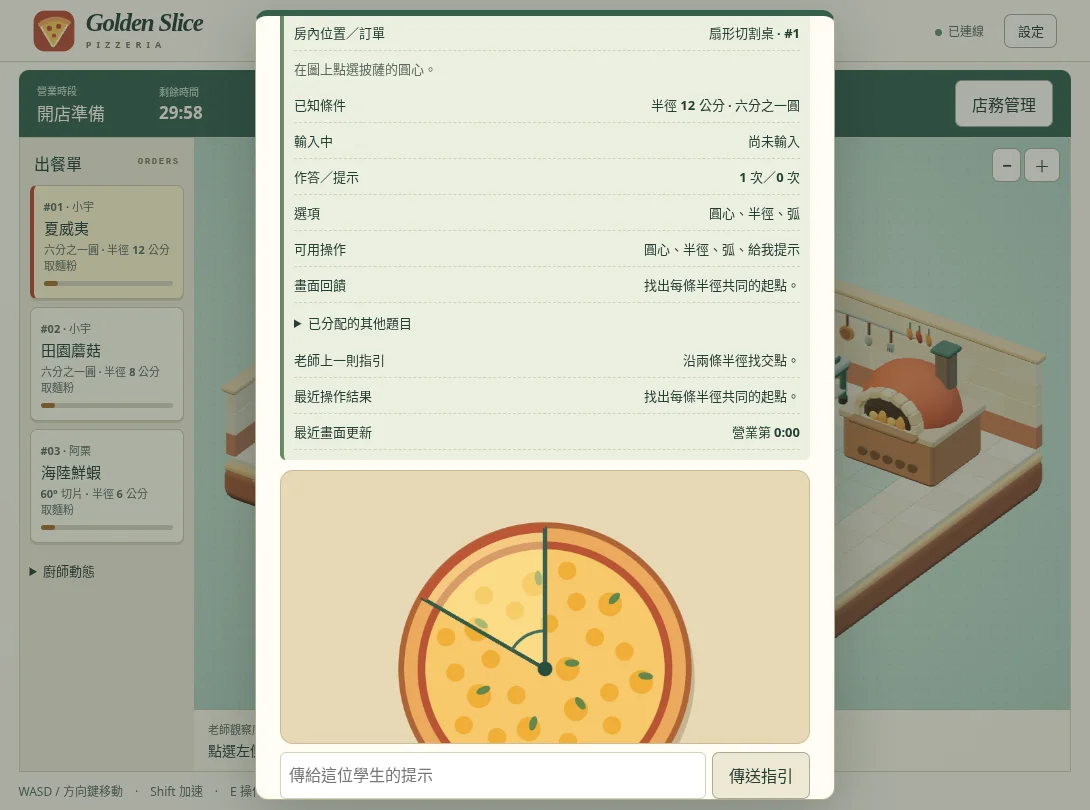
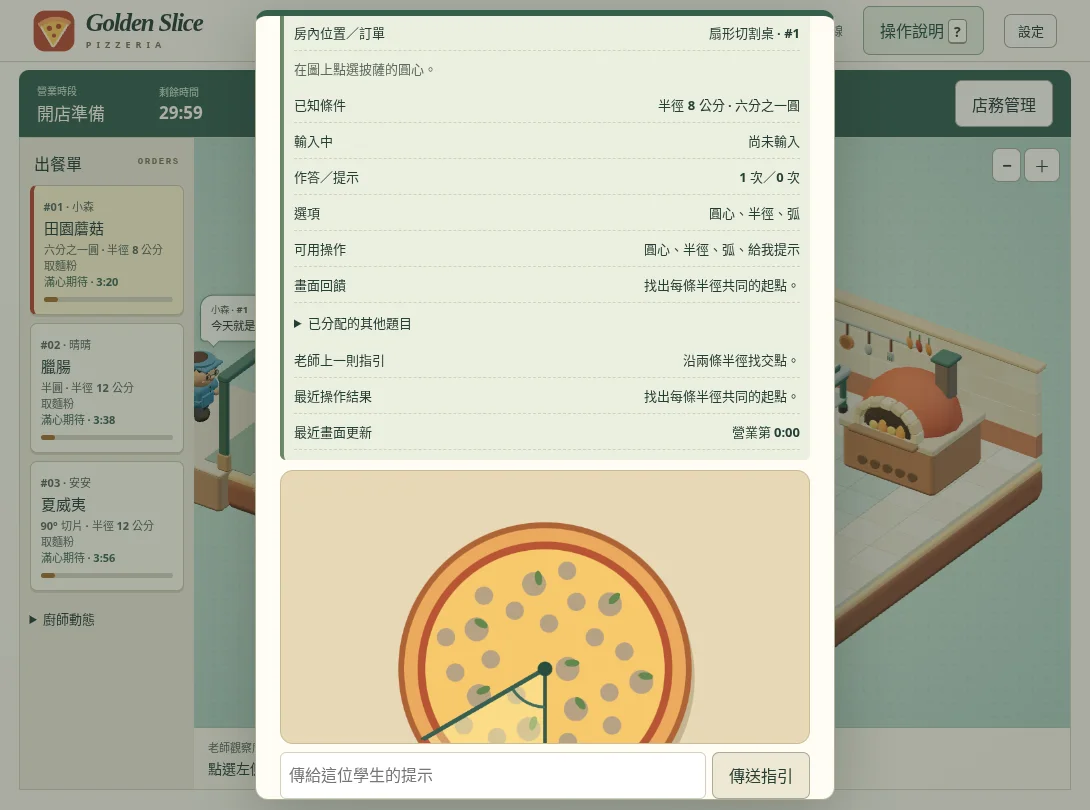
Release v1.4.1: keep classroom entry and mouse rescues responsive on slower connections

diff --git a/public/app.js b/public/app.js
@@ -8,6 +8,7 @@ import {
   itemNames,
   near,
   eventPoint,
+  holdingMouse,
 } from './world.js'
 import { guestLabels, guestLine, moodOf, patienceLeft } from './guests.js'
 import { eligible, roleFor, roleNames, craftLabels, availableMath } from './brigade.js'
@@ -39,6 +40,8 @@ let socket,
   cardsKey = '',
   rosterKey = '',
   nextVisit = null,
+  mouseSpot = null,
+  pendingEntry = null,
   walkKeys = new Set(),
   actionMemory = {},
   lastNews = 0,
@@ -278,6 +281,7 @@ function show(mode, title, html) {
   }
 }
 function close() {
+  pendingEntry = null
   if (dialogMode === 'station' && me() && state.status === 'playing') send('study')
   if (dlg.open) dlg.close()
   dialogMode = ''
@@ -307,7 +311,10 @@ dlg.addEventListener('click', (e) => {
 })
 function send(op, extra = {}) {
   if (socket?.readyState !== 1) {
-    if (op !== 'move') toast('正在重新連線，請稍候。')
+    if (['join', 'create'].includes(op) && !identity) {
+      pendingEntry = { op, extra }
+      toast('正在連線，連上後會自動進入準備室。')
+    } else if (op !== 'move') toast('正在重新連線，請稍候。')
     return
   }
   socket.send(JSON.stringify({ op, round: state?.round, nonce: crypto.randomUUID(), ...extra }))
@@ -324,6 +331,11 @@ function connect() {
       saved = JSON.parse(sessionStorage.getItem('golden-room'))
     } catch {}
     if (saved) send('restore', saved)
+    else if (pendingEntry) {
+      const entry = pendingEntry
+      pendingEntry = null
+      send(entry.op, entry.extra)
+    }
   }
   socket.onmessage = (e) => {
     const m = JSON.parse(e.data)
@@ -678,6 +690,7 @@ function render() {
       close()
       if ($('guide').open) $('guide').close()
       selected = 0
+      mouseSpot = null
       nextVisit = null
       actionMemory = {}
       cardsKey = ''
@@ -1444,6 +1457,11 @@ function eventPanel(force) {
     }
     return
   }
+  if (force && e.kind === 'mouse' && near(me(), eventPoint(e, state.t, me()))) {
+    const p = me()
+    mouseSpot = { id: e.start, at: state.t, x: p.x, z: p.z }
+    send('engage', { eventId: e.start })
+  }
   const key = e.kind + '-' + e.step + '-' + !!me().cargo
   if (!force && panelKey === key) return
   panelKey = key
@@ -1923,7 +1941,10 @@ document.addEventListener('click', (e) => {
   }
   if (c === 'event') {
     if (!state.event) return close()
-    if (!near(me(), eventPoint(state.event, state.t, me()))) {
+    if (
+      !holdingMouse(state.event, state.t, me(), mouseSpot) &&
+      !near(me(), eventPoint(state.event, state.t, me()))
+    ) {
       close()
       gotoEvent()
       return

diff --git a/game.js b/game.js
@@ -9,6 +9,7 @@ import {
   route,
   near,
   eventPoint,
+  holdingMouse,
 } from './public/world.js'
 import { eligible, availableMath, roleFor } from './public/brigade.js'
 import { patienceLeft, moodOf } from './public/guests.js'
@@ -262,6 +263,7 @@ export function newOrder(r, gold = false) {
 }
 export function disconnect(r, p) {
   p.online = false
+  p.engaged = null
   p.studying = null
   p.cargo = false
   p.move = [0, 0]
@@ -362,11 +364,7 @@ const makeEvent = (kind, r) => {
 }
 function playEvent(r, p, m) {
   const e = r.event
-  const atMouse =
-    e?.kind === 'mouse' &&
-    p.engaged?.id === e.start &&
-    r.t - p.engaged.at < 18 &&
-    Math.hypot(p.x - p.engaged.x, p.z - p.engaged.z) < 0.4
+  const atMouse = holdingMouse(e, r.t, p, p.engaged)
   need(e && (atMouse || near(p, eventPoint(e, r.t, p))), '請前往你負責的事件位置。')
   need(m.eventId === e.start, '這場事件已結束。')
   need(r.t - (e.lastBy[p.id] ?? -2) > 0.22, '稍候再接下一棒。')
@@ -626,7 +624,10 @@ export function command(r, p, m) {
   if (m.op === 'engage') {
     const e = r.event
     need(
-      e?.kind === 'mouse' && m.eventId === e.start && near(p, eventPoint(e, r.t, p)),
+      e?.kind === 'mouse' &&
+        m.eventId === e.start &&
+        (holdingMouse(e, r.t, p, p.engaged) ||
+          [0, 0.5, 1].some((delay) => near(p, eventPoint(e, Math.max(e.start, r.t - delay), p)))),
       '請先靠近鼠洞。',
     )
     p.engaged = { id: e.start, at: r.t, x: p.x, z: p.z }

diff --git a/test/game.test.js b/test/game.test.js
@@ -551,3 +551,26 @@ test('manual close and timeout each allow a teacher to reopen a private, clean s
     assert.equal(snapshot(r, b).lastReport, undefined)
   }
 })
+
+test('a chef who reached the mouse can read the instructions, but must chase again after moving', () => {
+  const r = setup(1),
+    p = r.players[0]
+  command(r, null, { op: 'event', value: 'mouse' })
+  const e = r.event,
+    spot = eventPoint(e, r.t, p)
+  p.x = spot.x
+  p.z = spot.z
+  command(r, p, { op: 'engage', eventId: e.start })
+  tick(r, 20)
+  command(r, p, { op: 'engage', eventId: e.start })
+  p.x = 4.8
+  p.z = 2.3
+  assert.throws(() => command(r, p, { op: 'engage', eventId: e.start }))
+  assert.throws(() =>
+    command(r, p, {
+      op: 'event',
+      eventId: e.start,
+      inputs: activityInputs('mouse', activitySeed(null, e, p)),
+    }),
+  )
+})

diff --git a/public/world.js b/public/world.js
@@ -105,3 +105,13 @@ export function eventPoint(e, t, player = null) {
   if (e.kind === 'duel') return stations.dough
   return { x: -2.5 + lane * 1.05, z: 0.32 + (lane % 2) * 0.42, w: 0.8, d: 0.65 }
 }
+
+export function holdingMouse(e, t, p, spot) {
+  return (
+    e?.kind === 'mouse' &&
+    spot?.id === e.start &&
+    t >= spot.at &&
+    t - spot.at <= 30 &&
+    Math.hypot(p.x - spot.x, p.z - spot.z) < 0.4
+  )
+}

diff --git a/server.js b/server.js
@@ -51,7 +51,7 @@ export function makeServer() {
     }
     if (path === '/health') {
       res.writeHead(200, { 'Content-Type': 'application/json' })
-      res.end(JSON.stringify({ ok: true, version: '1.4.0' }))
+      res.end(JSON.stringify({ ok: true, version: '1.4.1' }))
       return
     }
     const name = path === '/' ? 'index.html' : path.slice(1)

diff --git a/README.md b/README.md
@@ -171,6 +171,10 @@ python test/rescue_flow.py --url http://127.0.0.1:3000
 
 ## 版本紀錄
 
+**1.4.1 — 慢速連線與追鼠操作**
+
+開店或加入時若連線仍在建立，連上後會自動送出剛才的操作。廚師在鼠洞旁追到老鼠後，可以原地讀完說明再進小遊戲；離開鼠洞則需重新追趕。
+
 **1.4.0 — 門口動線、切片校正與五種救援玩法**
 
 - 打烊自動顯示成果，可繼續練刀或由老師帶全班在原房號開下一輪。
